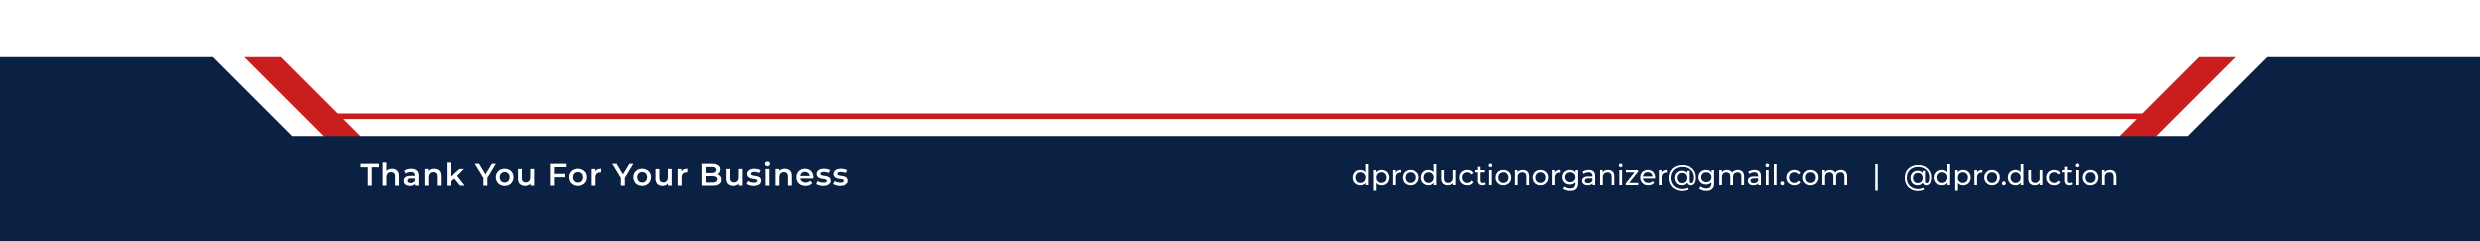
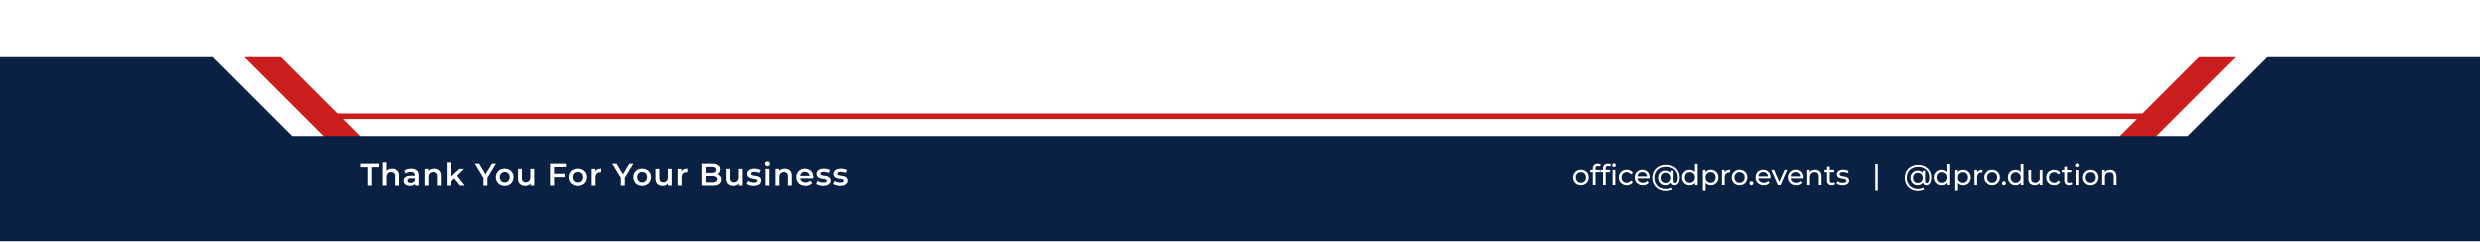
Email DPRO menjadi office@dpro.events
Migrasi aditif 20261112110000_email_dpro mengganti email perusahaan utama hanya bila masih berisi email gmail lama, jadi email yang sudah diganti lewat Pengaturan tetap. Kop dan kaki DPRO bawaan digambar ulang dengan Montserrat Medium, data contoh cetak dan DEPLOY.md ikut diperbarui.

Changed region(s): [[0.5278, 0.6653, 0.7452, 0.781]]

diff --git a/src/lib/cetak/contoh.ts b/src/lib/cetak/contoh.ts
@@ -381,7 +381,7 @@ export const IDENTITAS_CONTOH: Record<EntitasContoh, IdentitasCetak> = {
     nama: "D'Production",
     alamat: "Jl. Raya Pandanlandung No. 16 Malang",
     telepon: "+6281938938800",
-    email: "dproductionorganizer@gmail.com",
+    email: "office@dpro.events",
     instagram: "@dpro.duction",
     namaBank: "BANK CENTRAL ASIA",
     cabangBank: "Malang Cab. Galunggung",

diff --git a/src/aset-cetak/README.md b/src/aset-cetak/README.md
@@ -18,6 +18,11 @@ Nama berkas mengikuti slot `JenisAsetKop` dalam huruf kecil dengan tanda hubung 
 `judul-invoice.png`), dan nama folder mengikuti `GayaEntitas` dalam huruf kecil. Font Carlito tersalin utuh; SHA-256-nya
 dicatat di rancangan D3 §1.4 dan diperiksa `skrip/uji-mesin-cetak.ts`.
 
+Email di `dpro/kop.png` dan `dpro/kaki.png` sudah diganti menjadi `office@dpro.events`. Teks email lama ditimpa warna
+latarnya, lalu email baru ditulis dengan Montserrat Medium (SIL OFL 1.1, sama dengan teks lain di kedua gambar): 34 px
+di kop dan 28,4 px di kaki pada lebar 2480 px. Di kaki, `| @dpro.duction` tidak bergeser dan email baru berakhir di titik
+yang sama dengan email lama. Font Montserrat tidak disalin ke repo karena hanya dipakai untuk menggambar ulang PNG.
+
 ## Larangan
 
 Jangan pernah menaruh tanda tangan, cap atau stempel, KTP, maupun NPWP di folder ini. Folder ini masuk repo dan image

diff --git a/DEPLOY.md b/DEPLOY.md
@@ -193,6 +193,7 @@ Migrasi baru (aditif, jalan lewat `migrate deploy` biasa):
 | `20261111070000_notifikasi_tautan_aman` | CHECK tautan notifikasi |
 | `20261112090000_konsumsi_surat_jalan` | catatan konsumsi surat jalan per baris faktur |
 | `20261112100000_batas_jumlah_difaktur` | bagi ulang progres faktur data lama (bug B-10), lalu CHECK `0 <= jumlahDifaktur <= jumlah`; berhenti tanpa mengubah apa pun bila datanya tidak bisa dibagi ulang |
+| `20261112110000_email_dpro` | email perusahaan `utama` menjadi `office@dpro.events`, hanya bila masih berisi `dproductionorganizer@gmail.com` |
 
 ### 10.1 Sebelum deploy (baca saja, di basis data produksi)
 
